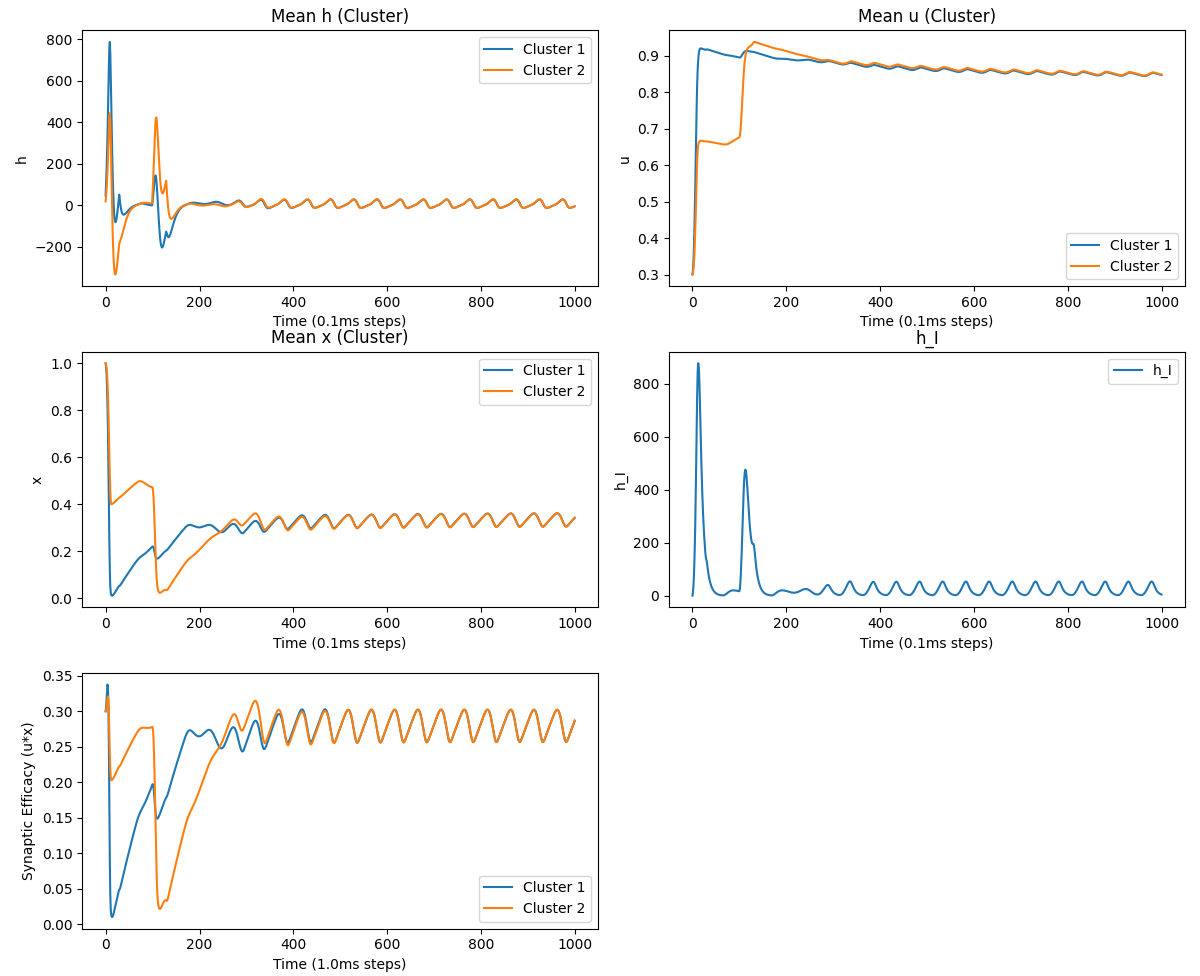
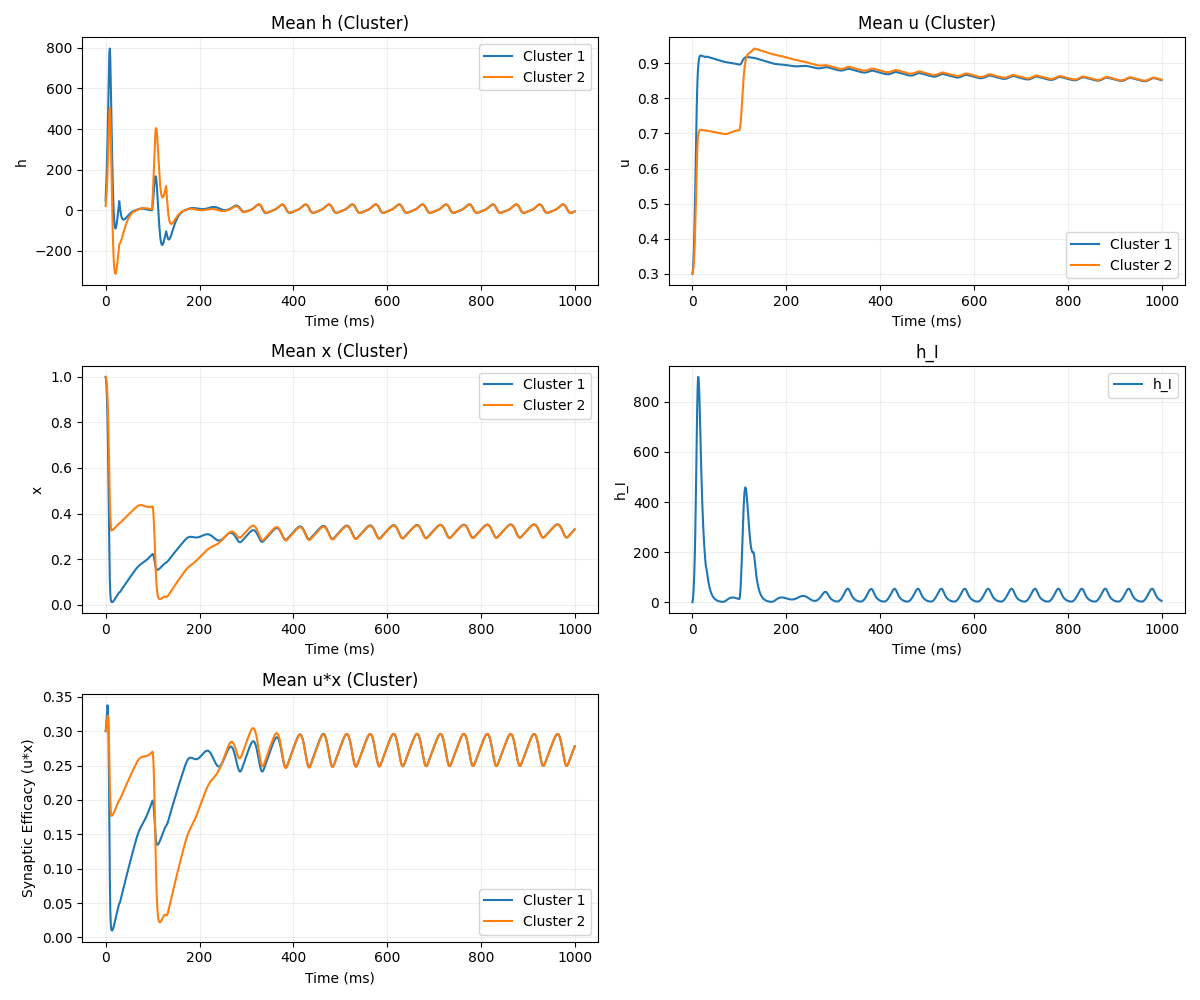
Update plots for cluster behaviour

diff --git a/code/004_extended/000_paper_test.py b/code/004_extended/000_paper_test.py
@@ -33,10 +33,13 @@ def simulate_cluster_stp(dt=1e-3):
 def simulate_paper_with_model(model:STPWrapper, input_strength, duration=2.5, input_length=5):
     """Simulate the paper test with the given model and input strength, for 'duration' seconds."""
     # Stimulation sequence
-    input_idx = torch.Tensor([[*range(input_length)]])
+    if isinstance(input_length, int): # HACK to allow for 1D input
+        input_length = [*range(input_length)]
+    input_idx = torch.Tensor([input_length]).to(device)
     inputs = generate_one_hot_impulses(input_idx, model.P, model.dt, impulse_strength=input_strength)
     inputs = pad_impulses(inputs, model.dt, duration)
     seq_len = int(duration / model.dt)
+    input_length = max(input_length) + 1 # HACK to allow for 1D input
 
     # Run simulation
     states, outputs = model(inputs)
@@ -70,6 +73,7 @@ def simulate_paper_with_model(model:STPWrapper, input_strength, duration=2.5, in
 
     # Plot results
     fig, axes = plt.subplots(3, 2, figsize=(12, 10))
+    time_ms = torch.linspace(0, (seq_len-1) * model.dt * 1e3, seq_len).tolist()
     # Plot state variables in a 2x2 figure
     titles = ['Mean h (Cluster)', 'Mean u (Cluster)', 'Mean x (Cluster)', 'h_I']
 
@@ -77,21 +81,24 @@ def simulate_paper_with_model(model:STPWrapper, input_strength, duration=2.5, in
         ax = axes[i // 2, i % 2]
         if variable in per_neuron_vars:
             for p in range(input_length):
-                ax.plot(state_traces[variable][p], label=f'Cluster {p+1}')
+                ax.plot(time_ms, state_traces[variable][p], label=f'Cluster {p+1}')
         else:  # Scalar variable
-            ax.plot(state_traces[variable], label=variable)
+            ax.plot(time_ms, state_traces[variable], label=variable)
         ax.set_title(titles[i])
-        ax.set_xlabel('Time (0.1ms steps)')
+        ax.set_xlabel('Time (ms)')
         ax.set_ylabel(variable)
         ax.legend()
+        ax.grid(alpha=0.2)
 
     # Plot ux
     ax = axes[2, 0]
     for p in range(input_length):
-        ax.plot(ux_traces[p], label=f'Cluster {p+1}')
-    ax.set_xlabel(f'Time ({model.dt * 1e3}ms steps)')
+        ax.plot(time_ms, ux_traces[p], label=f'Cluster {p+1}')
+    ax.set_title('Mean u*x (Cluster)')
+    ax.set_xlabel('Time (ms)')
     ax.set_ylabel('Synaptic Efficacy (u*x)')
     ax.legend()
+    ax.grid(alpha=0.2)
 
     # Hide unused plot
     axes[2, 1].set_visible(False)
@@ -107,7 +114,8 @@ if __name__ == "__main__":
     # simulate_cluster_stp()
     # simulate_paper_extended(input_length=4, N_a=1000, N_b=1000, dt=1e-3, input_strength=225.0)
     # 001_parity model 04/27: Clusters firing in sync, not correct
-    # simulate_paper_extended(P=2, f=0.4, input_length=2, N_a=100, N_b=200, dt=1e-3, duration=1.0)
+    simulate_paper_extended(P=2, f=0.4, input_length=2, N_a=100, N_b=200, dt=1e-3, duration=1.0)
     # Testing better values: correct firing
     simulate_paper_extended(P=2, f=0.05, input_length=2, N_a=1000, N_b=200, dt=1e-3, duration=1.0)
+    simulate_paper_extended(P=2, f=0.05, input_length=[0, 1, 0], N_a=1000, N_b=200, dt=1e-3, duration=1.0)
     # train_xor()
